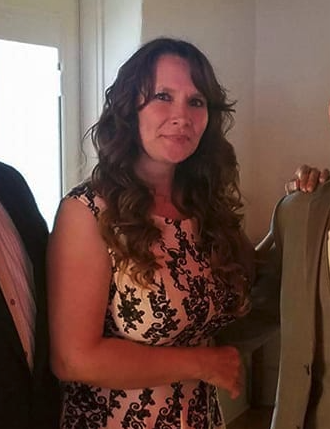
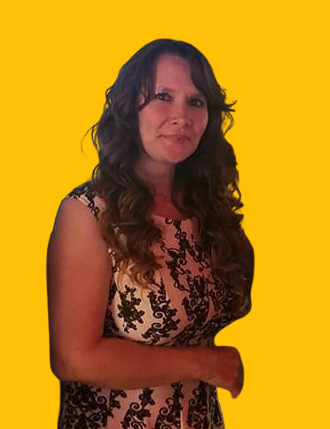
Working on about new component

diff --git a/src/components/about/About.jsx b/src/components/about/About.jsx
@@ -23,6 +23,11 @@ const Title = styled.span`
   font-size: var(--font-xlarge);
 `;
 
+const Details = styled.div`
+  display: flex;
+  justify-content: center;
+`;
+
 const Realtor = styled.img``;
 // ------------------------------
 // Component
@@ -32,7 +37,9 @@ function About() {
   return (
     <StyledAbout>
       <Title>About me</Title>
-      <Realtor src="/backgrounds/frances.png"></Realtor>
+      <Details>
+        <Realtor src="/backgrounds/frances.png"></Realtor>
+      </Details>
     </StyledAbout>
   );
 }
